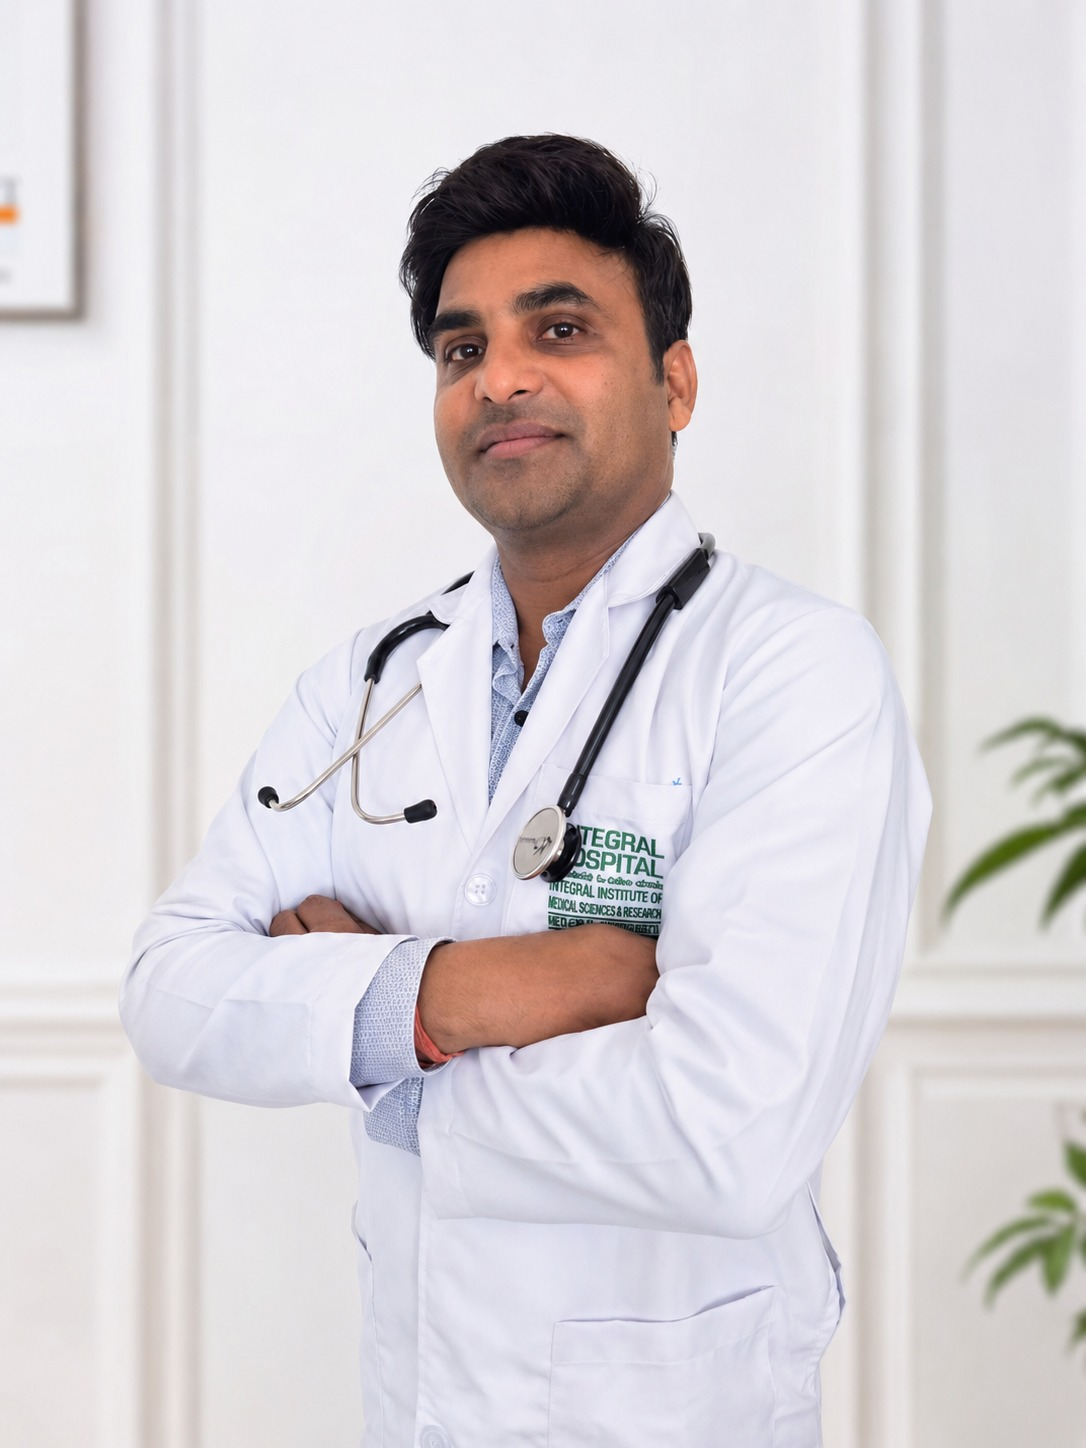
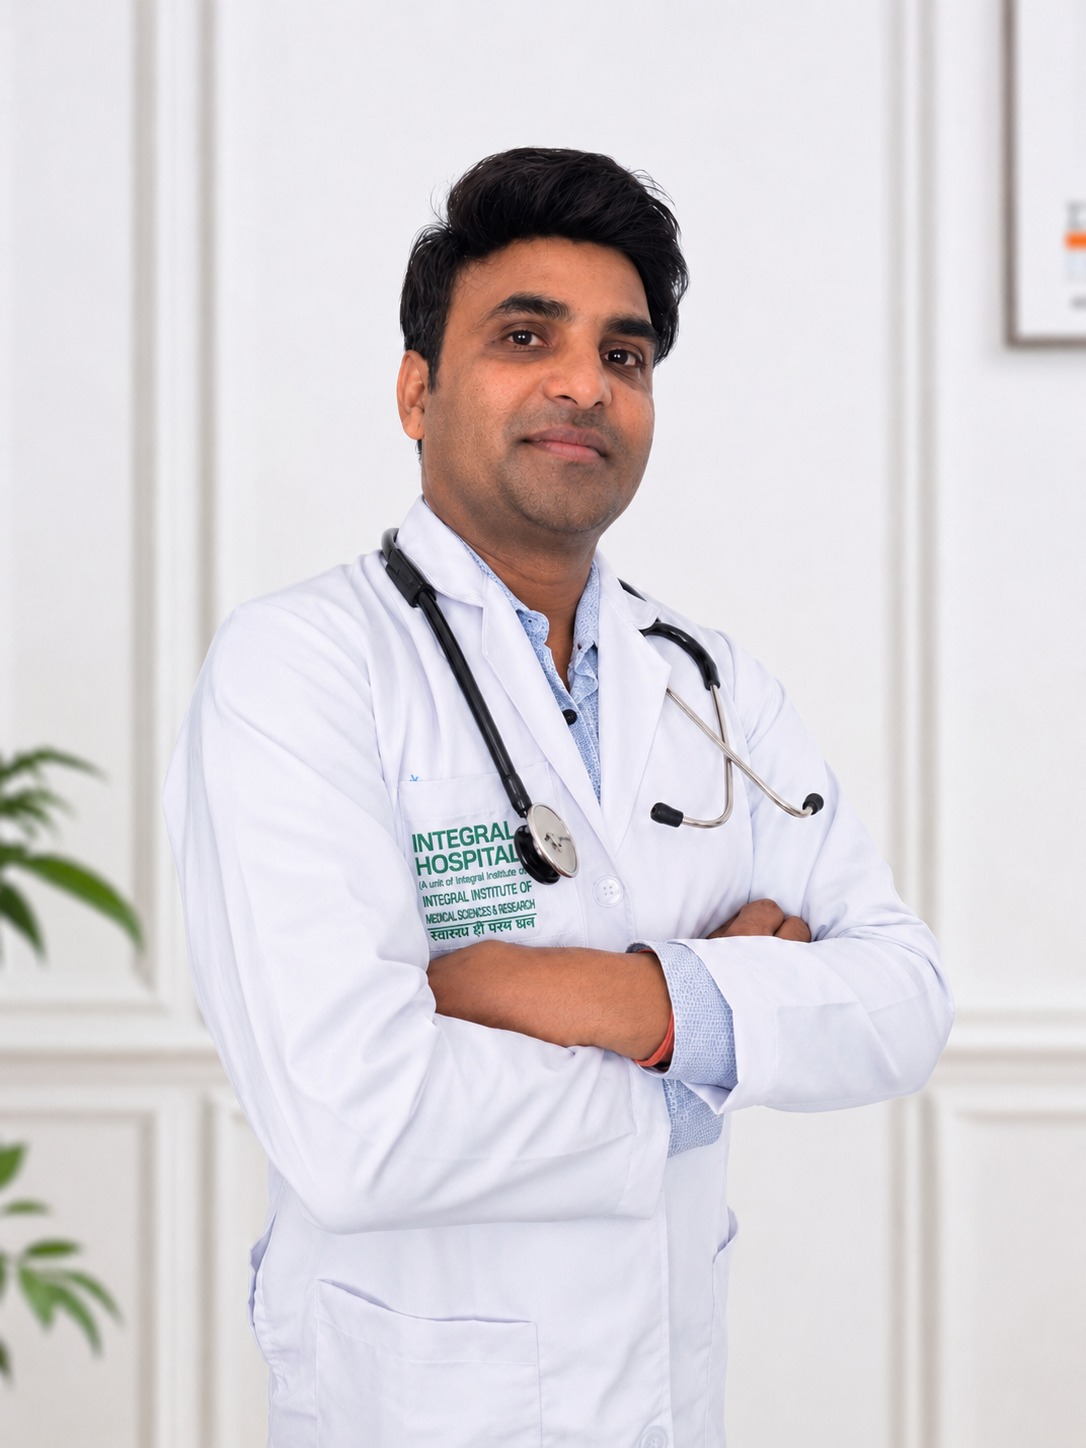
update map

diff --git a/lib/site-data.ts b/lib/site-data.ts
@@ -18,7 +18,7 @@ export const globalData = {
     { label: "Contact Us", href: "/contact", key: "contact" }
   ] as NavItem[],
   footer: {
-    logoImage: "/clinic-entrance.jpg",
+    logoImage: "/brain-wellness.png",
     brandName: "Avtar Health Care Clinic",
     description: "Comprehensive neuro-psychiatry, de-addiction, and family medicine services by Dr. Nilesh Kumar Kanaujiya and Dr. Preeti Chaudhary in Gomti Nagar, Lucknow.",
     socialLinks: [
@@ -121,7 +121,7 @@ export const homeData = {
     title: "Conditions We Treat",
     description: "We provide diagnosis and compassionate treatment for a wide spectrum of psychiatric, behavioral, and general medical conditions.",
     buttonText: "View Condition Guide",
-    href:'/conditions',
+    href: '/conditions',
     items: [
       "OCD",
       "Schizophrenia",
@@ -280,7 +280,8 @@ export const homeData = {
     mapImage: "https://images.unsplash.com/photo-1527689368864-3a821dbccc34?auto=format&fit=crop&w=800&q=80",
     mapAlt: "Avtar Health Care Clinic Consultation Office in Gomti Nagar, Lucknow",
     mapLocation: "Gomti Nagar, Lucknow",
-    pinLabel: "Avtar Health Care Clinic"
+    pinLabel: "Avtar Health Care Clinic",
+    mapEmbedUrl: "https://maps.google.com/maps?q=26.8438297,81.0238095&z=17&hl=en&output=embed"
   }
 };
 
@@ -861,7 +862,7 @@ export const doctorsData: DoctorProfile[] = [
   {
     slug: "dr-preeti-chaudhary",
     name: "Dr. Preeti Chaudhary, BAMS",
-    tagline: "Consultant General Physician",
+    tagline: "Holistic Ayurvedic Care",
     image: "/dr-preeti-chaudhary.jpeg",
     badgeTitle: "BAMS",
     badgeDesc: "General Physician",
@@ -952,7 +953,7 @@ export const aboutData = {
       "Standardized Psychometric Testing",
       "Comfortable Waiting Areas"
     ],
-    image: "/clinic-entrance.jpg"
+    image: "/therapy-room.png"
   }
 };
 
@@ -990,7 +991,7 @@ export const galleryData = {
     tagline: "Visual Tour",
     title: "Our Gallery",
     description: "Take a visual tour of Avtar Health Care Clinic, highlighting our consultation suites, brain wave diagnostics, and patient care rooms.",
-    backgroundImage: "/clinic-exterior.jpg"
+    backgroundImage: "/serene-wellness.png"
   },
   categories: [
     { key: "All", label: "All Photos" },
@@ -1001,18 +1002,18 @@ export const galleryData = {
   ],
   items: [
     {
-      src: "/clinic-exterior.jpg",
-      title: "Clinic Exterior",
-      category: "Facility",
+      src: "/serene-wellness.png",
+      title: "Serene Mindfulness Landscape",
+      category: "Patient Care",
       size: "wide",
-      description: "Our clinic exterior in Gomti Nagar, Lucknow, providing a peaceful environment for mental and physical healthcare."
+      description: "A calming nature environment symbolizing mental peace, clarity, and mindfulness."
     },
     {
-      src: "/clinic-entrance.jpg",
-      title: "Reception Desk",
+      src: "/therapy-room.png",
+      title: "Therapy Consultation Room",
       category: "Facility",
       size: "normal",
-      description: "Worry-free waiting area designed to ensure patient comfort and complete privacy."
+      description: "A comfortable and warm space designed for private counseling, therapy sessions, and psychiatric consultation."
     },
     {
       src: "https://images.unsplash.com/photo-1527689368864-3a821dbccc34?auto=format&fit=crop&w=800&q=80",
@@ -1041,6 +1042,13 @@ export const galleryData = {
       category: "Patient Care",
       size: "wide",
       description: "Providing cognitive behavioral therapy and counseling to patients and their families."
+    },
+    {
+      src: "/brain-wellness.png",
+      title: "Holistic Mental Growth",
+      category: "Technology",
+      size: "normal",
+      description: "Symbolic illustration of brain wellness, showing cognitive recovery, growth, and psychiatric healing."
     }
   ] as GalleryItem[]
 };

diff --git a/app/contact/page.tsx b/app/contact/page.tsx
@@ -128,11 +128,12 @@ function DetailsSection() {
 }
 
 function InteractiveMapSection() {
+  const { contactMap } = homeData;
   return (
     <section className="pb-24 px-margin-mobile md:px-margin-desktop max-w-container-max mx-auto bg-surface">
       <div className="h-[450px] bg-surface-container rounded-3xl overflow-hidden relative border border-outline-variant/20 shadow-clinical">
         <iframe
-          src="https://maps.google.com/maps?q=Avtar%20Health%20Care%20Clinic,%20Kaushalpuri,%20Khargapur,%20Gomti%20Nagar,%20Lucknow&t=&z=16&ie=UTF8&iwloc=&output=embed"
+          src={contactMap.mapEmbedUrl}
           className="w-full h-full border-0 opacity-95"
           allowFullScreen={true}
           loading="lazy"

diff --git a/app/page.tsx b/app/page.tsx
@@ -423,7 +423,7 @@ function ContactMapSection() {
           <div className="lg:col-span-8 reveal-card reveal-delay-200">
             <div className="h-full min-h-[320px] bg-surface-container rounded-2xl md:rounded-3xl overflow-hidden relative border border-outline-variant/20 shadow-clinical md:min-h-[400px]">
               <iframe
-                src="https://maps.google.com/maps?q=Avtar%20Health%20Care%20Clinic,%20Kaushalpuri,%20Khargapur,%20Gomti%20Nagar,%20Lucknow&t=&z=16&ie=UTF8&iwloc=&output=embed"
+                src={contactMap.mapEmbedUrl}
                 className="w-full h-full min-h-[320px] border-0 opacity-95 md:min-h-[400px]"
                 allowFullScreen={true}
                 loading="lazy"
